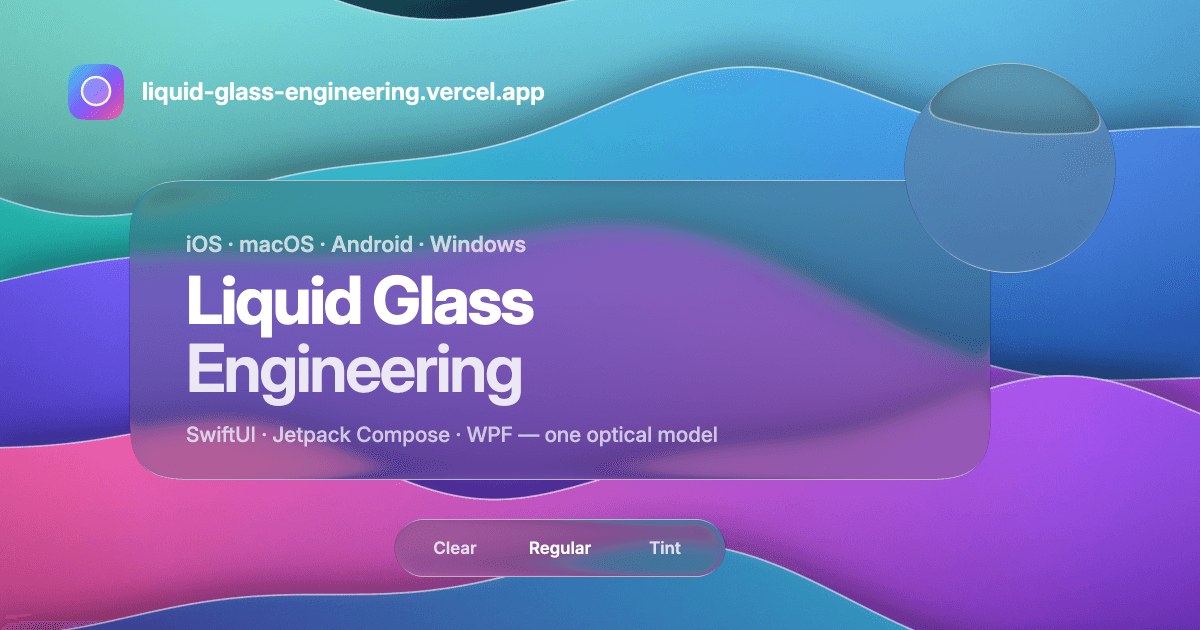
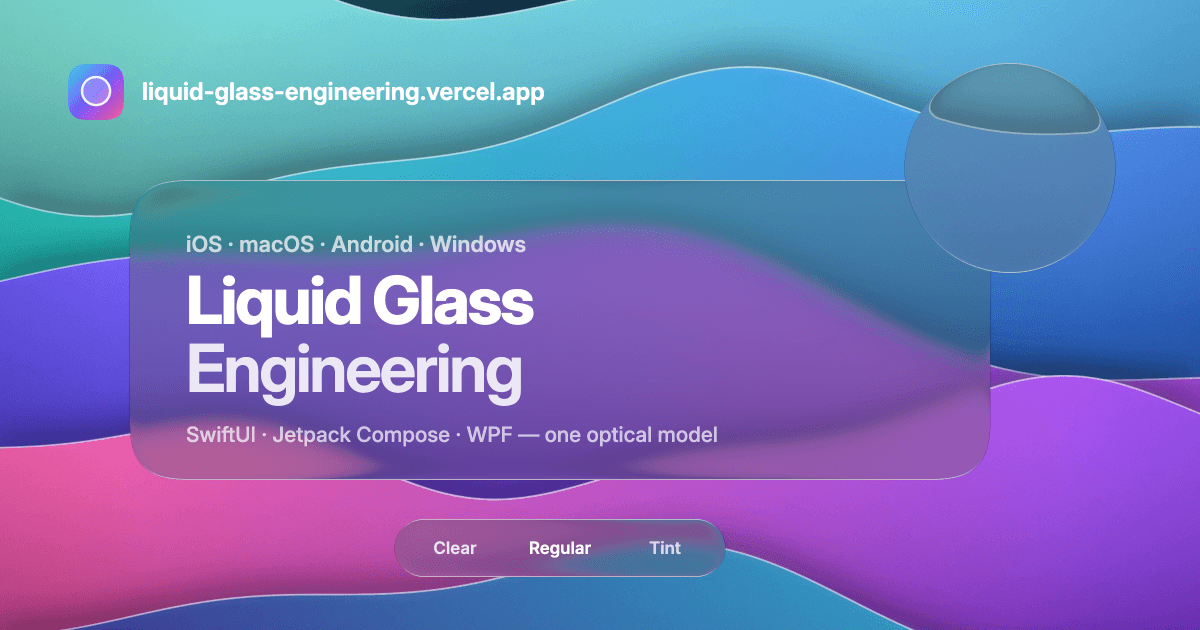
Website glass: unset refraction follows the resting size, min(60, 0.75 x shorter side), on the hero card and lens, toolbar, tab bar, control buttons, closing call to action and OG image; the tab lens measures it on the tab it settles on, the hero card says the value it uses, and the refraction diagr

diff --git a/website/src/glass/react.tsx b/website/src/glass/react.tsx
@@ -1,6 +1,6 @@
 import { createContext, useContext, useEffect, useLayoutEffect, useMemo, useRef, useState } from "react";
 import type { CSSProperties, HTMLAttributes, ReactNode, RefObject } from "react";
-import { pressScale, springStep, springs } from "@lg/reference";
+import { defaultRefraction, pressScale, springStep, springs } from "@lg/reference";
 import type { SpringState } from "@lg/reference";
 import { GlassScene } from "./scene";
 import type { Appearance, Radius, RendererKind, Surface, SurfaceOptions } from "./scene";
@@ -173,10 +173,30 @@ export function GlassStage({ backdrop, appearance, className, style, children, f
 export interface SurfaceProps {
   material?: Material;
   radius?: Radius;
+  /** Optical travel at the rim. Unset, it follows the resting size: min(60, 0.75 × shorter side). */
   refraction?: number;
   tint?: string | null;
   nested?: boolean;
   appearance?: Appearance;
+}
+
+/**
+ * The refraction a surface without one uses (OPTICS.md section 2), from the element's
+ * resting (layout) size; null until the element is measured.
+ */
+export function useDefaultRefraction(ref: RefObject<HTMLElement | null>): number | null {
+  const [value, setValue] = useState<number | null>(null);
+  useIsoLayoutEffect(() => {
+    const el = ref.current;
+    if (!el) return;
+    const update = () => setValue(defaultRefraction(el.offsetWidth, el.offsetHeight));
+    update();
+    if (typeof ResizeObserver === "undefined") return;
+    const observer = new ResizeObserver(update);
+    observer.observe(el);
+    return () => observer.disconnect();
+  }, [ref]);
+  return value;
 }
 
 /** Register an element as a glass surface of the enclosing stage. */
@@ -186,7 +206,7 @@ export function useSurface(ref: RefObject<HTMLElement | null>, props: SurfacePro
   const options: SurfaceOptions = {
     material: props.material ?? "clear",
     radius: props.radius ?? 16,
-    refraction: props.refraction ?? 60,
+    refraction: props.refraction ?? null,
     tint: hexToRgb(props.tint),
     nested: props.nested ?? false,
     ...(props.appearance ? { appearance: props.appearance } : {}),
@@ -237,7 +257,7 @@ export interface GlassProps extends SurfaceProps, Omit<HTMLAttributes<HTMLDivEle
 export function Glass({
   material = "clear",
   radius = 16,
-  refraction = 60,
+  refraction,
   tint = null,
   nested = false,
   appearance,
@@ -316,20 +336,20 @@ export interface GlassTabBarProps {
   tint?: string | null;
   className?: string;
   enterDelay?: number;
-  lensRefraction?: number;
 }
 
 /**
  * Tabs with a moving glass lens (COMPONENTS.md behavior 4): the lens slides
  * on the track spring, stretches with its speed and can be dragged.
  */
-export function GlassTabBar({ items, value, onChange, label, material = "regular", tint = null, className, enterDelay = 0, lensRefraction = 24 }: GlassTabBarProps) {
+export function GlassTabBar({ items, value, onChange, label, material = "regular", tint = null, className, enterDelay = 0 }: GlassTabBarProps) {
   const barRef = useRef<HTMLDivElement>(null);
   const lensRef = useRef<HTMLDivElement>(null);
   const { scene } = useStage();
   const [barMotion, setBarMotion] = useState<SurfaceMotion | null>(null);
   const barSurface = useRef<Surface | null>(null);
-  const lens = useSurface(lensRef, { material: "clear", radius: "capsule", refraction: lensRefraction, nested: true });
+  // The lens sets no refraction, as on every native port: it follows the lens's size.
+  const lens = useSurface(lensRef, { material: "clear", radius: "capsule", nested: true });
   const valueRef = useRef(value);
   valueRef.current = value;
   const onChangeRef = useRef(onChange);
@@ -430,6 +450,8 @@ export function GlassTabBar({ items, value, onChange, label, material = "regular
       press = springStep(press, pressSpring, dt);
       const width = Math.max(1, w.value);
       const height = lensEl.offsetHeight || 1;
+      // Its unset refraction follows the tab it settles on, not its width in flight.
+      lens.restingSize = { width: Math.max(1, w.target), height };
       const { sx, sy } = pressScale(width, height, press.value, 0, 0, x.velocity, 0, reduced);
       lensEl.style.width = `${width.toFixed(2)}px`;
       const transform = `translate3d(${x.value.toFixed(2)}px, 0, 0) scale(${sx.toFixed(4)}, ${sy.toFixed(4)})`;

diff --git a/website/src/glass/scene.ts b/website/src/glass/scene.ts
@@ -4,7 +4,7 @@
 // (including the press/stretch transforms the motion controllers write), so
 // labels on the glass and the refracting pixels never drift apart.
 
-import { glow as glowParams } from "@lg/reference";
+import { defaultRefraction, glow as glowParams } from "@lg/reference";
 import { GlassRenderer } from "./renderer";
 import type { BackdropImage, ContentRect, Material, SurfaceFrame } from "./renderer";
 
@@ -15,7 +15,8 @@ export type RendererKind = "pending" | "webgl" | "css";
 export interface SurfaceOptions {
   material: Material;
   radius: Radius;
-  refraction: number;
+  /** Optical travel at the rim; null follows the surface's resting size (OPTICS.md section 2). */
+  refraction: number | null;
   tint: readonly [number, number, number] | null;
   nested: boolean;
   /** Overrides the stage appearance for this surface. */
@@ -32,6 +33,11 @@ export interface Surface {
   glowClientY: number;
   glow: number;
   order: number;
+  /**
+   * The size the surface settles at, when its layout box is itself animating (the tab
+   * lens springing between tabs of different widths); null uses the layout box.
+   */
+  restingSize: { width: number; height: number } | null;
 }
 
 /** A DOM element painted into the backdrop as a solid shape, so glass refracts it. */
@@ -258,7 +264,7 @@ export class GlassScene {
   private hasBackdrop = false;
 
   add(el: HTMLElement, options: SurfaceOptions): Surface {
-    const surface: Surface = { el, options, opacity: 1, glowClientX: 0, glowClientY: 0, glow: 0, order: order++ };
+    const surface: Surface = { el, options, opacity: 1, glowClientX: 0, glowClientY: 0, glow: 0, order: order++, restingSize: null };
     this.surfaces.add(surface);
     this.surfaceResize.observe(el);
     this.invalidate();
@@ -389,7 +395,10 @@ export class GlassScene {
         width,
         height,
         radius: s.options.radius === "capsule" ? -1 : s.options.radius,
-        refraction: s.options.refraction,
+        // Unset refraction is measured on the resting size: the layout box, which the
+        // press, stretch and entrance transforms leave alone, so pressing a control does
+        // not change it (or the size an animating box settles at).
+        refraction: s.options.refraction ?? defaultRefraction(s.restingSize?.width ?? s.el.offsetWidth, s.restingSize?.height ?? s.el.offsetHeight),
         material: this.increasedContrast ? "regular" : s.options.material,
         dark,
         nested: s.options.nested,

diff --git a/website/src/pages/home/Hero.tsx b/website/src/pages/home/Hero.tsx
@@ -1,6 +1,6 @@
-import { useState } from "react";
+import { useRef, useState } from "react";
 import type { CSSProperties } from "react";
-import { Glass, GlassStage, GlassTabBar } from "../../glass/react";
+import { Glass, GlassStage, GlassTabBar, useDefaultRefraction } from "../../glass/react";
 import { wallpaperInfo, wallpaperNames } from "../../glass/backdrop";
 import type { WallpaperName } from "../../glass/backdrop";
 import type { Material } from "../../glass/renderer";
@@ -49,6 +49,9 @@ export function Hero() {
   const [material, setMaterial] = useState<Material>("regular");
   const [tint, setTint] = useState(0);
   const [refraction, setRefraction] = useState(true);
+  // With refraction on, the glass sets none and follows its size (OPTICS.md section 2).
+  const cardRef = useRef<HTMLDivElement>(null);
+  const cardRefraction = useDefaultRefraction(cardRef);
   // Until mounted the theme is unknown to React (the head script set it on
   // <html>), so markup stays theme-neutral and CSS picks the right tone.
   const current = mounted ? (picked ?? defaultWallpaper(theme)) : null;
@@ -103,10 +106,11 @@ export function Hero() {
 
         <div className="hero__play">
           <Glass
+            ref={cardRef}
             className="hero-card"
             material={material}
             radius={30}
-            refraction={refraction ? 60 : 0}
+            refraction={refraction ? undefined : 0}
             tint={tintHex}
             draggable
             bounds="parent"
@@ -121,7 +125,7 @@ export function Hero() {
               <div>
                 <p className="hero-card__title">Liquid Glass</p>
                 <p className="hero-card__meta">
-                  {materialName} · refraction {refraction ? 60 : 0}
+                  {materialName} · refraction {refraction ? (cardRefraction ?? "auto") : 0}
                   {tintHex ? ` · ${tintName.toLowerCase()} tint` : ""}
                 </p>
               </div>
@@ -140,7 +144,7 @@ export function Hero() {
             className="hero-lens"
             material="clear"
             radius="capsule"
-            refraction={refraction ? 60 : 0}
+            refraction={refraction ? undefined : 0}
             draggable
             bounds="parent"
             interactive

diff --git a/website/src/pages/home/Diagrams.tsx b/website/src/pages/home/Diagrams.tsx
@@ -1,7 +1,7 @@
 // Diagrams of the optical model, computed from spec/reference.mjs itself:
 // the curves on this page are the functions every port is tested against.
 
-import { clearTone, edgeProfile, regularTone, rimOverlay, shapeField, shapeOutline, shapeParams, springStep, springs } from "@lg/reference";
+import { clearTone, defaultRefraction, edgeProfile, regularTone, rimOverlay, shapeField, shapeOutline, shapeParams, springStep, springs } from "@lg/reference";
 import type { SpringOptions } from "@lg/reference";
 
 const f = (n: number) => n.toFixed(2);
@@ -94,6 +94,8 @@ export function RefractionDiagram() {
   const sw = 280;
   const sh = 150;
   const { extent, exponent } = shapeParams(sw, sh, 44);
+  // The shape sets no refraction, so it uses the default for its size (60 at 280 x 150).
+  const refraction = defaultRefraction(sw, sh);
   const outline = shapeOutline(sw, sh, 44, 32).map(([x, y]) => [x + (w - sw) / 2, y + (h - sh) / 2] as [number, number]);
   const arrows: { x: number; y: number; dx: number; dy: number; e: number }[] = [];
   const step = 11;
@@ -103,7 +105,7 @@ export function RefractionDiagram() {
       if (fld.distance > -1 || fld.distance < -20) continue;
       const e = edgeProfile(fld.distance);
       if (e < 0.04) continue;
-      arrows.push({ x: x + w / 2, y: y + h / 2, dx: -fld.nx * e * 60 * 0.42, dy: -fld.ny * e * 60 * 0.42, e });
+      arrows.push({ x: x + w / 2, y: y + h / 2, dx: -fld.nx * e * refraction * 0.42, dy: -fld.ny * e * refraction * 0.42, e });
     }
   }
   return (
@@ -127,7 +129,7 @@ export function RefractionDiagram() {
         />
       ))}
       <text x={w / 2} y={h / 2 + 4} textAnchor="middle" className="diagram__label">
-        offset = −n · edge · 60
+        offset = −n · edge · refraction
       </text>
     </svg>
   );

diff --git a/website/src/og.tsx b/website/src/og.tsx
@@ -6,7 +6,7 @@
 import "./styles/base.css";
 import { GlassRenderer } from "./glass/renderer";
 import type { SurfaceFrame } from "./glass/renderer";
-import { shapeOutline } from "@lg/reference";
+import { defaultRefraction, shapeOutline } from "@lg/reference";
 
 const W = 1200;
 const H = 630;
@@ -17,8 +17,9 @@ const say = (t: string) => {
   if (status) status.textContent = t;
 };
 
-function surface(x: number, y: number, width: number, height: number, radius: number, material: "clear" | "regular", dark: boolean, refraction = 60): SurfaceFrame {
-  return { x, y, width, height, radius, refraction, material, dark, nested: false, tint: null, opacity: 1, glowX: 0, glowY: 0, glow: 0, glowRadius: 1, contrast: false };
+// No surface sets a refraction, so each follows its size (OPTICS.md section 2).
+function surface(x: number, y: number, width: number, height: number, radius: number, material: "clear" | "regular", dark: boolean): SurfaceFrame {
+  return { x, y, width, height, radius, refraction: defaultRefraction(width, height), material, dark, nested: false, tint: null, opacity: 1, glowX: 0, glowY: 0, glow: 0, glowRadius: 1, contrast: false };
 }
 
 async function main() {

diff --git a/website/src/spec.d.ts b/website/src/spec.d.ts
@@ -51,6 +51,7 @@ declare module "@lg/reference" {
   ): { distance: number; nx: number; ny: number };
   export function shapeOutline(width: number, height: number, radius: Radius, segments?: number): [number, number][];
   export function edgeProfile(distance: number, bevel?: number): number;
+  export function defaultRefraction(width: number, height: number): number;
   export function refractionOffset(distance: number, nx: number, ny: number, refraction?: number): { dx: number; dy: number };
   export function coverage(distance: number, pixel: number): number;
   export function luma(r: number, g: number, b: number): number;
